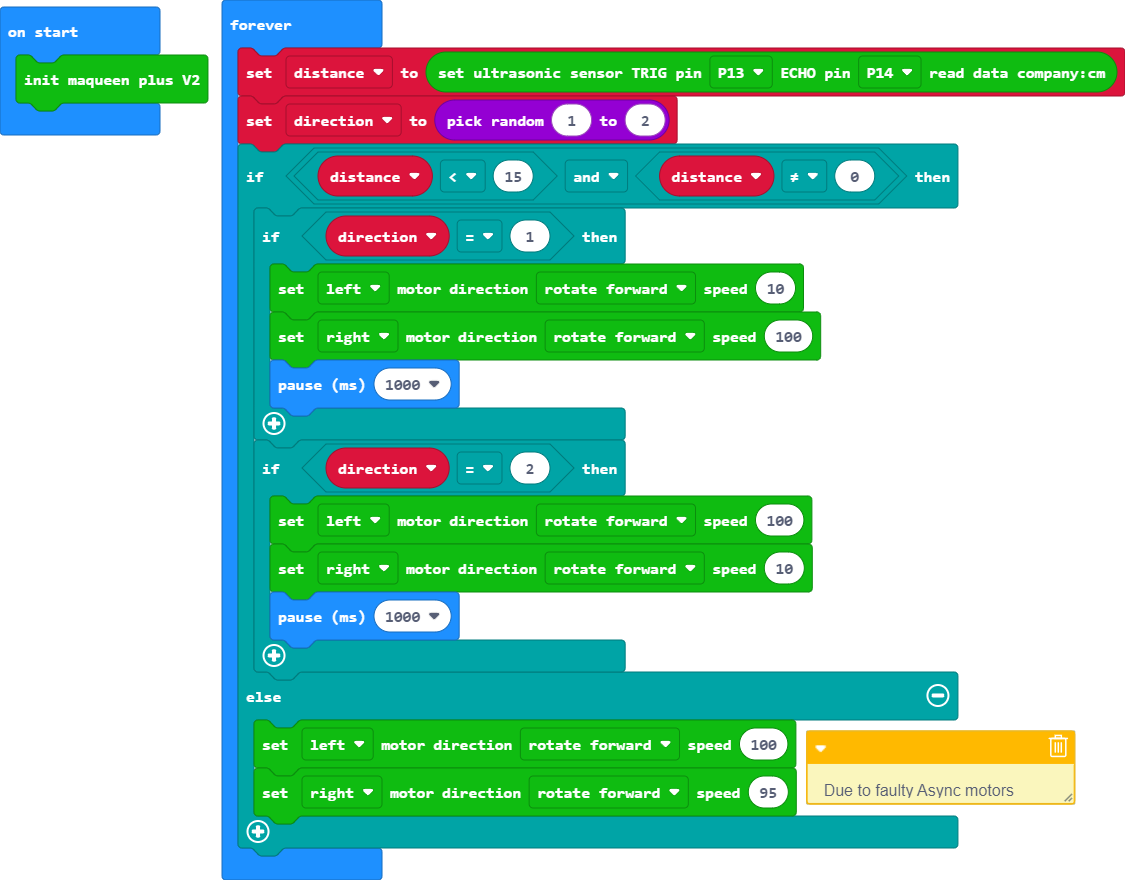
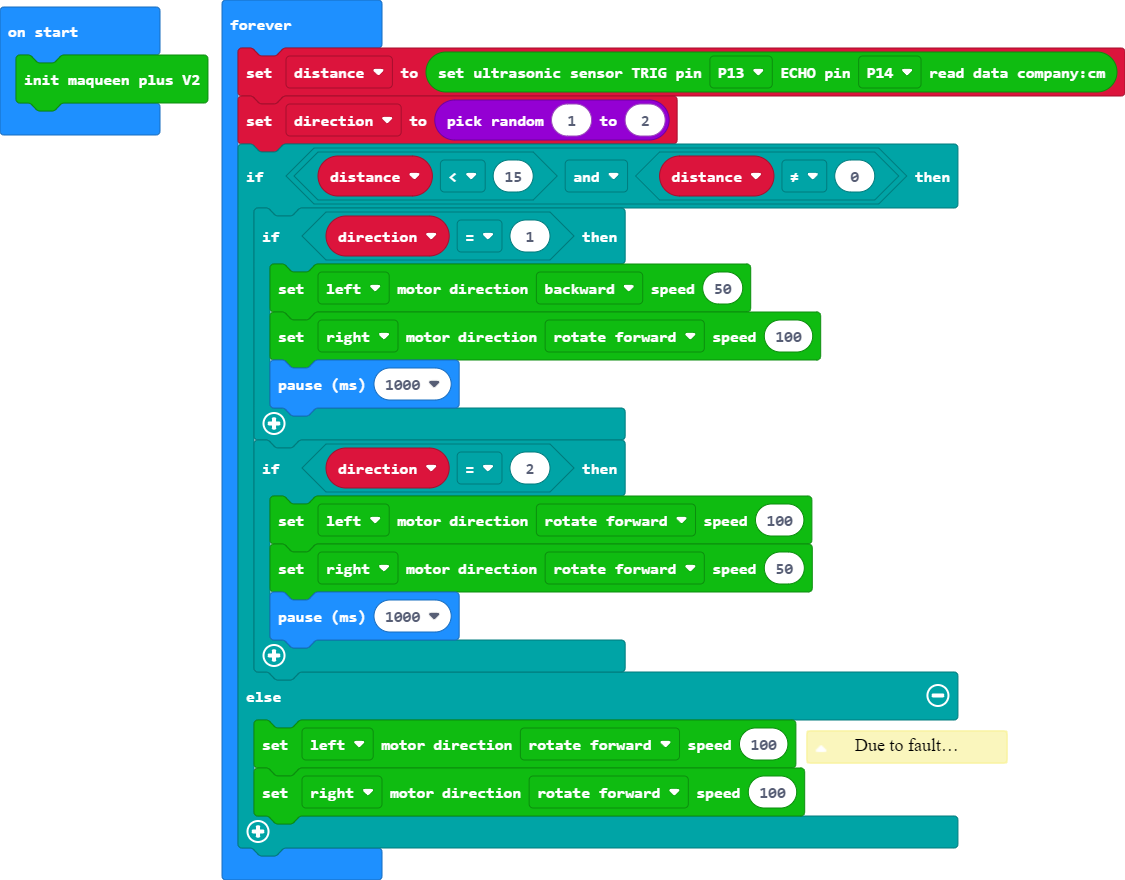
Update pxt.json, main.blocks, main.ts, main.py

Changed region(s): [[0.6844, 0.8284, 0.9644, 0.9205], [0.4978, 0.2761, 0.7156, 0.3682]]

diff --git a/main.ts b/main.ts
@@ -9,17 +9,17 @@ basic.forever(function () {
     direction = randint(1, 2)
     if (distance < 15 && distance != 0) {
         if (direction == 1) {
-            DFRobotMaqueenPlusV2.controlMotor(MyEnumMotor.eLeftMotor, MyEnumDir.eForward, 10)
+            DFRobotMaqueenPlusV2.controlMotor(MyEnumMotor.eLeftMotor, MyEnumDir.eBackward, 50)
             DFRobotMaqueenPlusV2.controlMotor(MyEnumMotor.eRightMotor, MyEnumDir.eForward, 100)
             basic.pause(1000)
         }
         if (direction == 2) {
             DFRobotMaqueenPlusV2.controlMotor(MyEnumMotor.eLeftMotor, MyEnumDir.eForward, 100)
-            DFRobotMaqueenPlusV2.controlMotor(MyEnumMotor.eRightMotor, MyEnumDir.eForward, 10)
+            DFRobotMaqueenPlusV2.controlMotor(MyEnumMotor.eRightMotor, MyEnumDir.eForward, 50)
             basic.pause(1000)
         }
     } else {
         DFRobotMaqueenPlusV2.controlMotor(MyEnumMotor.eLeftMotor, MyEnumDir.eForward, 100)
-        DFRobotMaqueenPlusV2.controlMotor(MyEnumMotor.eRightMotor, MyEnumDir.eForward, 95)
+        DFRobotMaqueenPlusV2.controlMotor(MyEnumMotor.eRightMotor, MyEnumDir.eForward, 100)
     }
 })

diff --git a/main.py b/main.py
@@ -1,6 +1,11 @@
 direction = 0
 distance = 0
 DFRobotMaqueenPlusV2.init()
+"""
+
+Due to faulty Async motors
+
+"""
 
 def on_forever():
     global distance, direction
